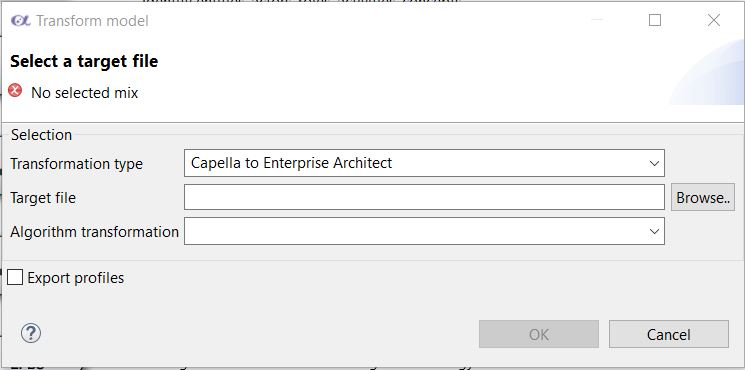
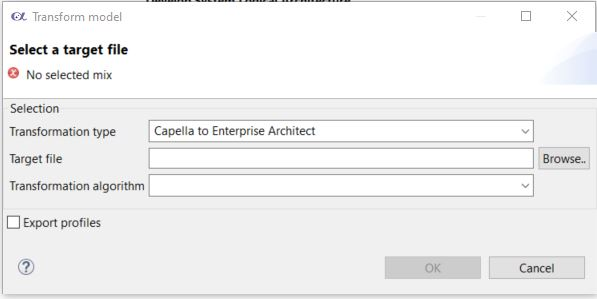
change Algorithm Transformation to Transformation algorithm + update screeshot of the documentation

Changed region(s): [[0.0, 0.0, 1.0, 1.0], [0.0, 0.1204, 0.2111, 0.301]]

diff --git a/Plugins/com.artal.capella.mapping/src/com/artal/capella/mapping/ui/CapellaMappingDialog.java b/Plugins/com.artal.capella.mapping/src/com/artal/capella/mapping/ui/CapellaMappingDialog.java
@@ -199,7 +199,7 @@ public class CapellaMappingDialog extends TitleAreaDialog {
 	public ComboViewer createMixCombo(Group selectGroup) {
 		Label mixLabel = new Label(selectGroup, SWT.NONE);
 		mixLabel.setLayoutData(new GridData(GridData.FILL_HORIZONTAL));
-		mixLabel.setText("Algorithm transformation");
+		mixLabel.setText("Transformation algorithm");
 
 		ComboViewer combo = new ComboViewer(selectGroup, SWT.NONE);
 		combo.getCombo().setLayoutData(new GridData(GridData.FILL_HORIZONTAL));
